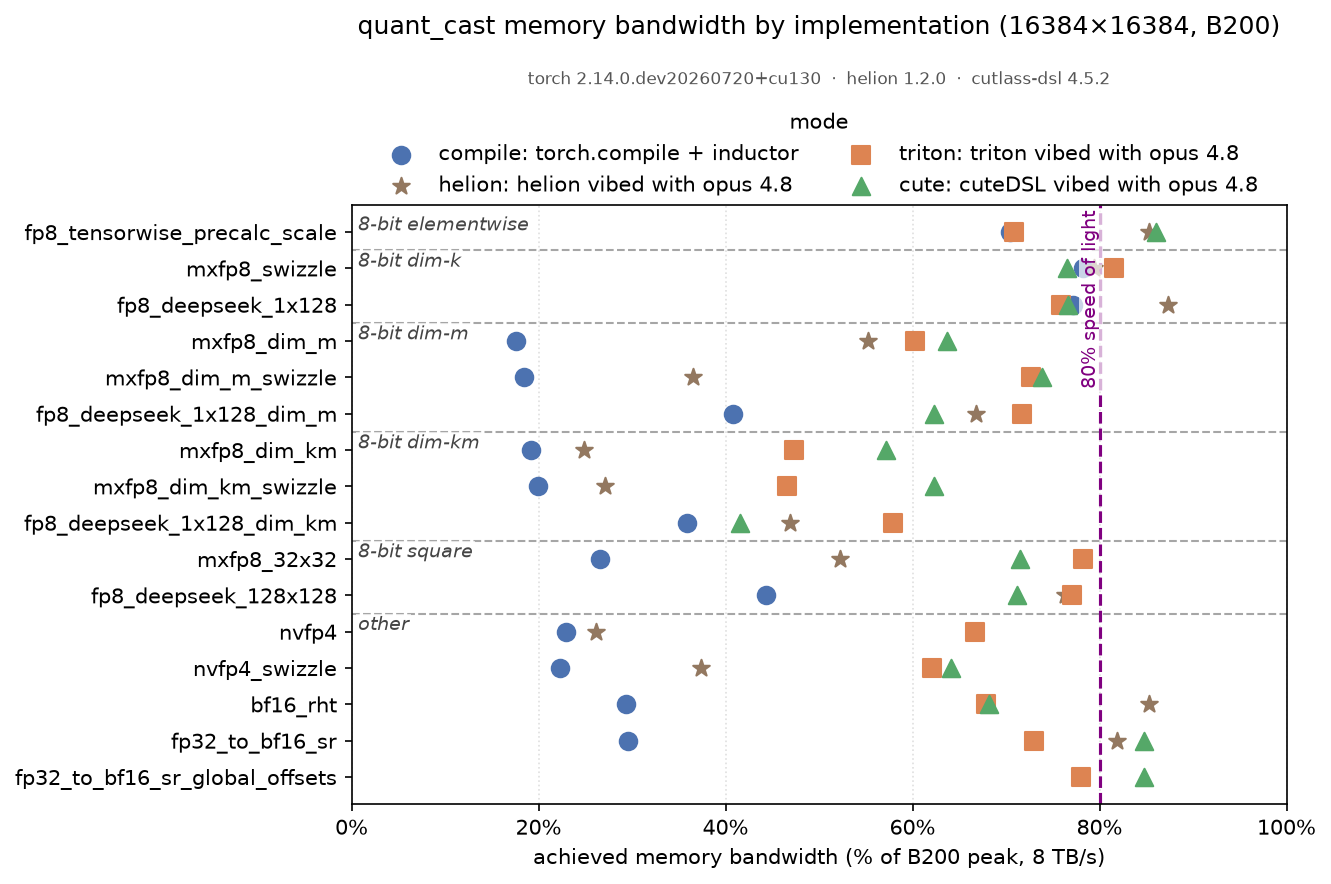
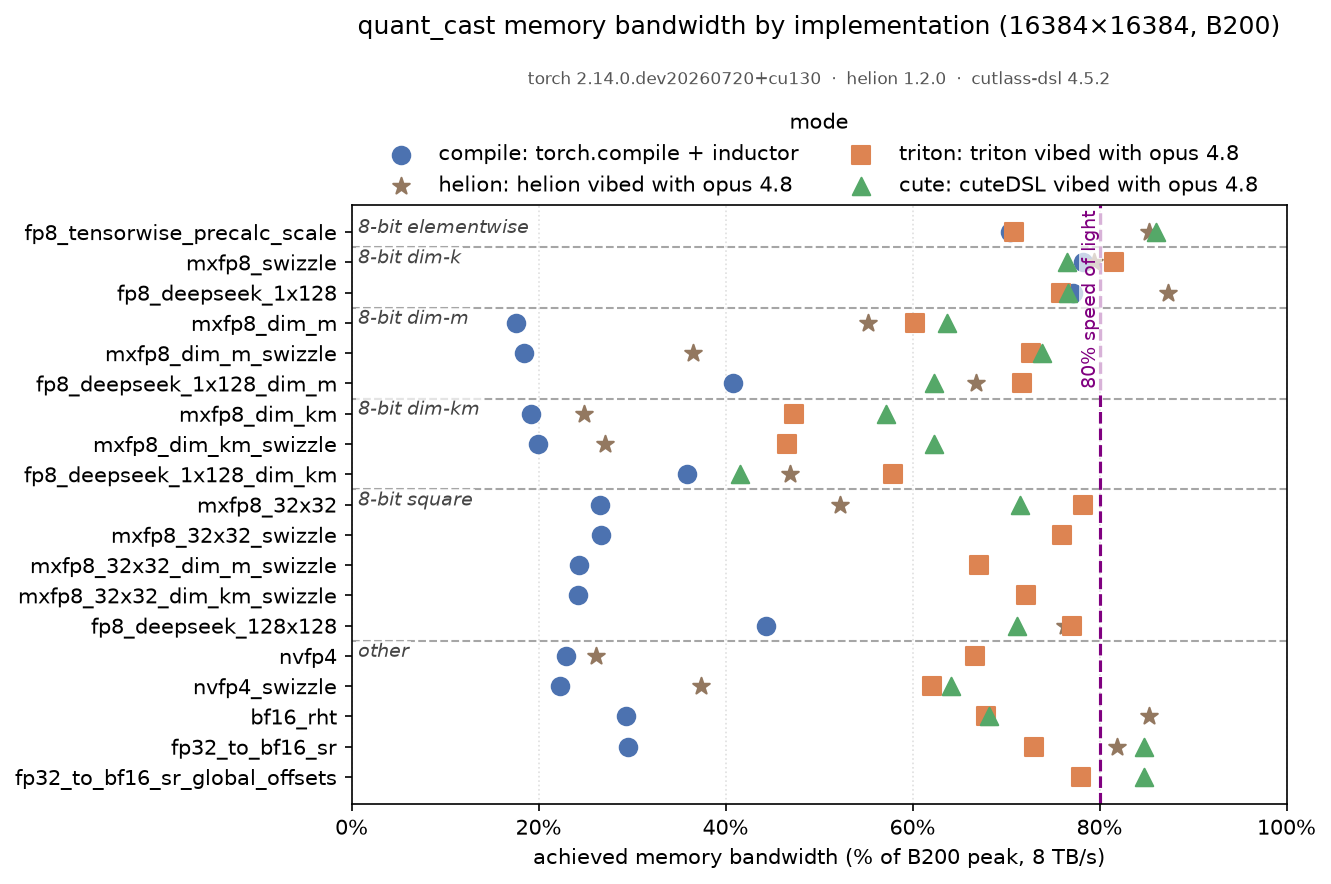
more mxfp8 32x32 options
Summary:

Test Plan:

diff --git a/quant_cast_bench/quant_cast_triton/recipes.py b/quant_cast_bench/quant_cast_triton/recipes.py
@@ -23,6 +23,8 @@ from quant_cast_bench.quant_cast_gold.recipes import (
     Deepseek128x128Gold,
     Float8TensorwiseGold,
     HadamardRht,
+    Mxfp832x32DimKMSwizzleGold,
+    Mxfp832x32DimMSwizzleGold,
     Mxfp832x32Gold,
     Mxfp832x32SwizzleGold,
     Mxfp8DimKmGold,
@@ -718,6 +720,89 @@ MXFP8_32X32_SWIZZLE = QuantCastTritonRecipe.from_gold(
 
 
 # ---------------------------------------------------------------------------
+# mxfp8 32x32 dim-M / transposed swizzle: same square-block quant as _mxfp8_32x32_swizzle_kernel
+# (one e8m0 scale per 32x32 block, via the (32, CB, 32) double-max reduction), but the outputs are
+# written in the dim-M / transposed frame -- qdata (N, M) and the scale into the NVIDIA-swizzled 4D
+# block grid of the TRANSPOSED (N, M//32) scale. The block is square, so the scale VALUES are
+# identical to _mxfp8_32x32_swizzle_kernel; only the output layout changes. Mirrors
+# mxfp8_32x32_dim_m_swizzle_f. The per-block scale is expanded over the 32 columns of its col-block
+# (which become 32 transposed rows over N), and its swizzle pre-position is (row = n in [0, N),
+# col = 32-row-block index in [0, M//32)) -- reusing _mxfp8_dim_m_swizzle_kernel's flat formula.
+# Requires M%32==0 and N%32==0. The scale grid spans the PADDED extents (rows N->nrb*128, cols
+# M//32->ncb*4) so every slot of the (nrb, ncb, 32, 16) buffer is written -- real e8m0 bytes or
+# literal 0 (matching gold's zero-pad) -- letting the wrapper use torch.empty. Grid:
+# (ncb*4, cdiv(nrb*128, CB*32)).
+# ---------------------------------------------------------------------------
+@triton.autotune(configs=_MXFP8_32X32_CONFIGS, key=["M", "N"])
+@triton.jit
+def _mxfp8_32x32_dim_m_swizzle_kernel(
+    x_ptr, y_ptr, s_ptr, M, N, sxm, sxn, sym, syn, NCB, NRB, CB: tl.constexpr
+):
+    pid_rb = tl.program_id(0)  # single 32-row block (= transposed scale col, over the padded ncb*4)
+    pid_cb = tl.program_id(1)  # group of CB 32-col blocks (= transposed scale rows, over padded nrb*128)
+    offs_m = pid_rb * 32 + tl.arange(0, 32)
+    offs_n = pid_cb * (CB * 32) + tl.arange(0, CB * 32)
+    m_mask = offs_m < M
+    n_mask = offs_n < N
+    x = tl.load(
+        x_ptr + offs_m[:, None] * sxm + offs_n[None, :] * sxn,
+        mask=m_mask[:, None] & n_mask[None, :], other=0.0,
+    ).to(tl.float32)  # (32, CB*32); padded rows/cols read as 0
+    xr = tl.reshape(x, (32, CB, 32))
+    amax = tl.max(tl.max(tl.abs(xr), axis=2), axis=0)  # (CB,): within-block cols, then 32 rows
+    biased = _amax_to_e8m0_tl(amax)  # (CB,)
+    rcp = _e8m0_to_reciprocal_fp32_tl(biased)
+    y = tl.reshape((xr * rcp[None, :, None]).to(tl.float8e4nv), (32, CB * 32))  # (32, CB*32)
+    # transposed qdata store into (N, M): out[n, m] = y[m_in_tile, n_in_tile]. qdata is exactly
+    # (N, M) with no padding, so gate on both real transposed-row (offs_n < N) and real col (offs_m < M).
+    out_off = offs_n[:, None] * sym + offs_m[None, :] * syn
+    tl.store(y_ptr + out_off, tl.trans(y), mask=n_mask[:, None] & m_mask[None, :])
+    # swizzled scale store into the 4D grid (nrb, ncb, 32, 16). Pre-swizzle position in the transposed
+    # frame: row = n (over N), col = pid_rb (this program's single 32-row-block, over M//32). The one
+    # block scale is expanded over the 32 transposed rows of each col-block -- biased[cb] to every
+    # offs_n in that col-block. Padded transposed rows (n >= N) / cols (pid_rb >= M//32) are written 0.
+    row = offs_n                                    # (CB*32,)  transposed row over N
+    br = row // 128
+    r128 = row % 128
+    a = r128 // 32
+    b = r128 % 32
+    bc = pid_rb // 4                                # col = pid_rb (32-row-block index)
+    c4 = pid_rb % 4
+    flat = ((br * NCB + bc) * 32 + b) * 16 + (a * 4 + c4)  # (CB*32,)
+    # biased is (CB,); expand each col-block's scale over its 32 transposed rows -> (CB*32,).
+    biased_exp = tl.reshape(tl.broadcast_to(biased[:, None], (CB, 32)), (CB * 32,))
+    s_bytes = tl.where(n_mask & (pid_rb < (M // 32)), biased_exp.to(tl.uint8), 0)
+    # mask is OOB-safety only (offs_n >= NRB*128 -> br >= NRB -> out-of-buffer flat); padded rows in
+    # [N, NRB*128) are valid buffer positions and get the 0 written above.
+    tl.store(s_ptr + flat, s_bytes, mask=offs_n < (NRB * 128))
+
+
+def mxfp8_32x32_dim_m_swizzle_triton(x, **kwargs):
+    assert x.is_contiguous() and x.dim() == 2
+    M, N = x.shape
+    assert M % 32 == 0 and N % 32 == 0, "mxfp8_32x32_dim_m_swizzle kernel needs M%32==0 and N%32==0"
+    y = torch.empty((N, M), dtype=torch.float8_e4m3fn, device=x.device)
+    nrb = (N + 127) // 128            # transposed rows = N
+    ncb = ((M // 32) + 3) // 4        # transposed cols = M//32 (padded up to a multiple of 4)
+    # torch.empty (not zeros): the kernel writes every slot of the padded (nrb, ncb, 32, 16) grid
+    # itself -- real e8m0 bytes plus literal 0 for the padded transposed rows [N, nrb*128) and cols.
+    s_u8 = torch.empty(nrb, ncb, 32, 16, dtype=torch.uint8, device=x.device)
+    # grid dim0 = ncb*4 tiles the transposed scale col (32-row-block index) over [0, ncb*4) exactly;
+    # dim1 covers the padded transposed rows (nrb*128), not just N -- so every swizzle slot is visited
+    # exactly once. offs_m may overshoot M (masked on the qdata store).
+    grid = lambda meta: (ncb * 4, triton.cdiv(nrb * 128, meta["CB"] * 32))  # noqa: E731
+    _mxfp8_32x32_dim_m_swizzle_kernel[grid](
+        x, y, s_u8, M, N, x.stride(0), x.stride(1), y.stride(0), y.stride(1), ncb, nrb,
+    )
+    return y, s_u8.view(torch.float8_e8m0fnu)
+
+
+MXFP8_32X32_DIM_M_SWIZZLE = QuantCastTritonRecipe.from_gold(
+    Mxfp832x32DimMSwizzleGold, triton_fn=mxfp8_32x32_dim_m_swizzle_triton
+)
+
+
+# ---------------------------------------------------------------------------
 # mxfp8 dim-M: 32-row blocks down M, one e8m0 scale per (32-row-block, col); transposed
 # outputs (N, M) / (N, M//32). Mirrors mxfp8_dim_m_f.
 # Perf: process RB 32-row blocks x BN cols per program; reshape (RB*32, BN) -> (RB, 32, BN) and
@@ -1058,6 +1143,101 @@ def mxfp8_dim_km_swizzle_triton(x, **kwargs):
 
 MXFP8_DIM_KM_SWIZZLE = QuantCastTritonRecipe.from_gold(
     Mxfp8DimKmSwizzleGold, triton_fn=mxfp8_dim_km_swizzle_triton
+)
+
+
+# ---------------------------------------------------------------------------
+# mxfp8 32x32 both directions, one pass, with BOTH e8m0 scales in the swizzled 4D (nrb, ncb, 32, 16)
+# grid. The block is SQUARE, so the quantization + single per-block scale are shared: one (RB, CB)
+# scale (amax over each 32x32 block via the (RB, 32, CB, 32) double-max), one qdata reused for both
+# the dim-K (M,N) store and the dim-M (N,M) transposed store. Only the two scale layouts differ --
+# the same block scale expanded over its 32 rows (dim-K: sk (M, N//32)) or 32 cols then transposed
+# (dim-M: sm (N, M//32)), each scattered to its swizzled slot (reusing _mxfp8_dim_km_swizzle_kernel's
+# flat formulas). Mirrors mxfp8_32x32_dim_km_swizzle_f. Requires M%32==0, N%32==0. Both swizzle grids
+# allocate with torch.empty: the grid spans the PADDED extents Mpad=ceil(M/128)*128,
+# Npad=ceil(N/128)*128 so every slot of both buffers is written (real e8m0 bytes or literal 0).
+# ---------------------------------------------------------------------------
+@triton.autotune(configs=_DIM_KM_CONFIGS, key=["M", "N"])
+@triton.jit
+def _mxfp8_32x32_dim_km_swizzle_kernel(
+    x_ptr, yk_ptr, sk_ptr, ym_ptr, sm_ptr, M, N,
+    sxm, sxn, sykm, sykn, symn, symm, NCB_K, NCB_M,
+    BN: tl.constexpr, RB: tl.constexpr,
+):
+    BM: tl.constexpr = RB * 32   # rows in the tile
+    CB: tl.constexpr = BN // 32  # 32-col blocks in the tile
+    pid_m = tl.program_id(0)     # row-block group (BM rows), over Mpad
+    pid_n = tl.program_id(1)     # col group (BN cols), over Npad
+    offs_m = pid_m * BM + tl.arange(0, BM)
+    offs_n = pid_n * BN + tl.arange(0, BN)
+    m_real = offs_m < M
+    n_real = offs_n < N
+    x = tl.load(
+        x_ptr + offs_m[:, None] * sxm + offs_n[None, :] * sxn,
+        mask=m_real[:, None] & n_real[None, :], other=0.0,
+    ).to(tl.float32)  # (BM, BN); padded rows/cols read as 0
+    # one scale per 32x32 block: reshape (RB, 32, CB, 32) and reduce both within-block dims. M%32==0
+    # and N%32==0 -> each block is wholly real or wholly padded, so a real block's amax never mixes 0.
+    xr = tl.reshape(x, (RB, 32, CB, 32))
+    b = _amax_to_e8m0_tl(tl.max(tl.max(tl.abs(xr), axis=3), axis=1))  # (RB, CB) per block
+    rcp = _e8m0_to_reciprocal_fp32_tl(b)
+    q = tl.reshape((xr * rcp[:, None, :, None]).to(tl.float8e4nv), (BM, BN))  # shared qdata
+    # dim-K store: qdata (M, N) as-is.
+    tl.store(yk_ptr + offs_m[:, None] * sykm + offs_n[None, :] * sykn, q,
+             mask=m_real[:, None] & n_real[None, :])
+    # dim-M store: qdata transposed into (N, M).
+    tl.store(ym_ptr + offs_n[:, None] * symn + offs_m[None, :] * symm, tl.trans(q),
+             mask=n_real[:, None] & m_real[None, :])
+    # swizzled sk store: scale (M, N//32), block scale expanded over its 32 rows -> (BM, CB). Pre-swizzle
+    # row = m (over M), col = 32-col-block (over N//32). Padded slots (m >= M or col-block >= N//32) -> 0.
+    b_exp_k = tl.reshape(tl.broadcast_to(b[:, None, :], (RB, 32, CB)), (BM, CB))
+    row_k = offs_m[:, None]                              # (BM, 1)
+    col_k = (pid_n * CB + tl.arange(0, CB))[None, :]     # (1, CB)
+    r128k = row_k % 128
+    flat_k = (((row_k // 128) * NCB_K + col_k // 4) * 32 + r128k % 32) * 16 + (r128k // 32 * 4 + col_k % 4)
+    real_k = m_real[:, None] & (col_k < (N // 32))
+    tl.store(sk_ptr + flat_k, tl.where(real_k, b_exp_k.to(tl.uint8), 0))
+    # swizzled sm store: scale (N, M//32) transposed, block scale expanded over its 32 cols -> (RB, BN).
+    # Pre-swizzle row = n (over N), col = 32-row-block (over M//32). Padded slots -> 0.
+    b_exp_m = tl.reshape(tl.broadcast_to(b[:, :, None], (RB, CB, 32)), (RB, BN))
+    row_m = offs_n[None, :]                              # (1, BN)
+    col_m = (pid_m * RB + tl.arange(0, RB))[:, None]     # (RB, 1)
+    r128m = row_m % 128
+    flat_m = (((row_m // 128) * NCB_M + col_m // 4) * 32 + r128m % 32) * 16 + (r128m // 32 * 4 + col_m % 4)
+    real_m = (offs_n[None, :] < N) & (col_m < (M // 32))
+    tl.store(sm_ptr + flat_m, tl.where(real_m, b_exp_m.to(tl.uint8), 0))
+
+
+def mxfp8_32x32_dim_km_swizzle_triton(x, **kwargs):
+    assert x.is_contiguous() and x.dim() == 2
+    M, N = x.shape
+    assert M % 32 == 0 and N % 32 == 0, \
+        "mxfp8_32x32_dim_km_swizzle kernel needs M%32==0 and N%32==0"
+    yk = torch.empty_like(x, dtype=torch.float8_e4m3fn)                    # (M, N)
+    ym = torch.empty(N, M, dtype=torch.float8_e4m3fn, device=x.device)    # (N, M) transposed
+    # sk: (M, N//32) swizzled; sm: (N, M//32) swizzled. torch.empty (not zeros): the kernel writes
+    # every slot of both padded (nrb, ncb, 32, 16) grids itself (real e8m0 bytes or literal 0).
+    nrb_k = (M + 127) // 128
+    nrb_m = (N + 127) // 128
+    ncb_k = ((N // 32) + 3) // 4
+    ncb_m = ((M // 32) + 3) // 4
+    sk = torch.empty(nrb_k, ncb_k, 32, 16, dtype=torch.uint8, device=x.device)
+    sm = torch.empty(nrb_m, ncb_m, 32, 16, dtype=torch.uint8, device=x.device)
+    # grid spans the padded extents (multiples of 128, hence of every RB*32 and BN), so every swizzle
+    # slot is visited exactly once.
+    mpad = nrb_k * 128
+    npad = nrb_m * 128
+    grid = lambda meta: (triton.cdiv(mpad, meta["RB"] * 32), triton.cdiv(npad, meta["BN"]))  # noqa: E731
+    _mxfp8_32x32_dim_km_swizzle_kernel[grid](
+        x, yk, sk, ym, sm, M, N,
+        x.stride(0), x.stride(1), yk.stride(0), yk.stride(1),
+        ym.stride(0), ym.stride(1), ncb_k, ncb_m,
+    )
+    return yk, sk.view(torch.float8_e8m0fnu), ym, sm.view(torch.float8_e8m0fnu)
+
+
+MXFP8_32X32_DIM_KM_SWIZZLE = QuantCastTritonRecipe.from_gold(
+    Mxfp832x32DimKMSwizzleGold, triton_fn=mxfp8_32x32_dim_km_swizzle_triton
 )
 
 
@@ -1542,6 +1722,8 @@ ALL_RECIPES = [
     # 8-bit 2D
     ("mxfp8_32x32", MXFP8_32X32),
     ("mxfp8_32x32_swizzle", MXFP8_32X32_SWIZZLE),
+    ("mxfp8_32x32_dim_m_swizzle", MXFP8_32X32_DIM_M_SWIZZLE),
+    ("mxfp8_32x32_dim_km_swizzle", MXFP8_32X32_DIM_KM_SWIZZLE),
     ("fp8_deepseek_128x128", FP8_DEEPSEEK_128X128),
     # 8-bit rowwise/colwise
     ("fp8_rowwise", FP8_ROWWISE),

diff --git a/quant_cast_bench/quant_cast_gold/recipes.py b/quant_cast_bench/quant_cast_gold/recipes.py
@@ -794,6 +794,96 @@ Mxfp832x32SwizzleGold = QuantCastSingleKernelGold(
     perf_description="(32,32) block, swizzle",
 )
 
+# ---------------------------------------------------------------------------
+# Golden recipe: mxfp8 with square 32x32 blocks (as Mxfp832x32SwizzleGold), but the output is
+# dim-M / transposed -- qdata (N, M) and the per-block e8m0 scale expanded along N (each block
+# scale repeated over its 32 columns) then transposed to a (N, M//32) grid and swizzled into the
+# NVIDIA 32x4x4 blocked layout. The quantization is identical to mxfp8_32x32_swizzle_f (the block
+# is square, so which axis we expand over doesn't change the scale value); only the output layout
+# changes -- it's mxfp8_32x32_swizzle_f in the dim-M / transposed frame.
+# ---------------------------------------------------------------------------
+def mxfp8_32x32_dim_m_swizzle_f(x, **kwargs):
+    qdata, scale_e8m0 = mxfp8_32x32_f(x)  # (M, N), (M//32, N//32)
+    # expand the per-block scale over its 32 columns -> (M//32, N), then transpose to the dim-M
+    # frame (N, M//32) so it matches the transposed qdata's last-dim 32-blocks.
+    scale_expanded = scale_e8m0.repeat_interleave(32, dim=1).t().contiguous()  # (N, M//32)
+    return qdata.t().contiguous(), _to_blocked_4d(scale_expanded)
+
+
+def mxfp8_32x32_dim_m_swizzle_dq_f(q: torch.Tensor, scale: torch.Tensor) -> torch.Tensor:
+    # not a dataclass field -- inverse for the correctness check / consumers. `q` is (N, M) in the
+    # transposed dim-M frame with 32-blocks along the last (M) axis; reuse mxfp8_swizzle_dq_f, which
+    # un-swizzles the 4D scale grid and dequants last-dim 32-blocks.
+    return mxfp8_swizzle_dq_f(q, scale)
+
+
+def _mxfp8_32x32_dim_m_swizzle_correctness(
+    inputs: Tuple[torch.Tensor, ...], outputs: Tuple[torch.Tensor, torch.Tensor]
+) -> None:
+    """dequant works in the (N, M) transposed frame; transpose back before comparing to `x`."""
+    (x,) = inputs
+    qdata, scale = outputs
+    x_hat = mxfp8_32x32_dim_m_swizzle_dq_f(qdata, scale).t()
+    sqnr = _compute_error(x.float(), x_hat.float())
+    threshold = 15.0
+    assert sqnr > threshold, (
+        f"mxfp8_32x32_dim_m_swizzle: sqnr={sqnr.item():.2f} dB below {threshold} dB"
+    )
+
+
+Mxfp832x32DimMSwizzleGold = QuantCastSingleKernelGold(
+    pt_ref_fn=mxfp8_32x32_dim_m_swizzle_f,
+    correctness_fn=_mxfp8_32x32_dim_m_swizzle_correctness,
+    example_input_fn=lambda M, K: (torch.randn(M, K, dtype=torch.bfloat16, device="cuda"),),
+    perf_description="(32,32) block, t-contig, swizzle",
+)
+
+# ---------------------------------------------------------------------------
+# Golden recipe: mxfp8 with square 32x32 blocks, emitting BOTH the dim-K and dim-M swizzled
+# outputs in one pass. The block is square, so the quantization (and the single per-block e8m0
+# scale) is SHARED: the two qdata outputs are the same values in the dim-K (M,N) and dim-M / trans
+# (N,M) frames, and the two scales are that one block scale expanded along M (dim-K -> (M, N//32))
+# or along N then transposed (dim-M -> (N, M//32)), each swizzled. It's mxfp8_32x32_swizzle_f and
+# mxfp8_32x32_dim_m_swizzle_f fused into one pass (cf. mxfp8_dim_km_swizzle_f for the 1D-block case).
+# ---------------------------------------------------------------------------
+def mxfp8_32x32_dim_km_swizzle_f(x, **kwargs):
+    """One pass over x with square 32x32 blocks, both frames, both scales swizzled. Returns
+    (qk (M,N), sk_blocked, qm (N,M), sm_blocked) where sk/sm are the 4D block grids
+    `(nrb, ncb, 32, 16)` of the block scale expanded to (M, N//32) / (N, M//32)."""
+    qdata, scale_e8m0 = mxfp8_32x32_f(x)  # (M, N), (M//32, N//32)
+    # dim-K frame: expand the per-block scale over its 32 rows -> (M, N//32).
+    sk = _to_blocked_4d(scale_e8m0.repeat_interleave(32, dim=0))
+    # dim-M frame: expand over its 32 columns -> (M//32, N), transpose to (N, M//32).
+    sm = _to_blocked_4d(scale_e8m0.repeat_interleave(32, dim=1).t().contiguous())
+    return qdata, sk, qdata.t().contiguous(), sm
+
+
+def _mxfp8_32x32_dim_km_swizzle_correctness(
+    inputs: Tuple[torch.Tensor, ...],
+    outputs: Tuple[torch.Tensor, torch.Tensor, torch.Tensor, torch.Tensor],
+) -> None:
+    """Both quantizations dequant back to `x` with SQNR above threshold, each un-swizzling its 4D
+    scale grid: the dim-K pair directly, the dim-M pair in the transposed frame (then .t())."""
+    (x,) = inputs
+    qk, sk, qm, sm = outputs
+    sqnr_k = _compute_error(x.float(), mxfp8_swizzle_dq_f(qk, sk).float())
+    sqnr_m = _compute_error(x.float(), mxfp8_swizzle_dq_f(qm, sm).t().float())
+    threshold = 15.0
+    assert sqnr_k > threshold, (
+        f"mxfp8_32x32_dim_km_swizzle (dim-k): sqnr={sqnr_k.item():.2f} dB below {threshold} dB"
+    )
+    assert sqnr_m > threshold, (
+        f"mxfp8_32x32_dim_km_swizzle (dim-m): sqnr={sqnr_m.item():.2f} dB below {threshold} dB"
+    )
+
+
+Mxfp832x32DimKMSwizzleGold = QuantCastSingleKernelGold(
+    pt_ref_fn=mxfp8_32x32_dim_km_swizzle_f,
+    correctness_fn=_mxfp8_32x32_dim_km_swizzle_correctness,
+    example_input_fn=lambda M, K: (torch.randn(M, K, dtype=torch.bfloat16, device="cuda"),),
+    perf_description="(32,32) block, one pass, t-contig, swizzle",
+)
+
 
 # ---------------------------------------------------------------------------
 # Golden recipe: mxfp8 with swizzled (NVIDIA 32x4x4 blocked) scale.
@@ -1544,6 +1634,8 @@ ALL_RECIPES = [
     # 8-bit 2D
     ("mxfp8_32x32", Mxfp832x32Gold),
     ("mxfp8_32x32_swizzle", Mxfp832x32SwizzleGold),
+    ("mxfp8_32x32_dim_m_swizzle", Mxfp832x32DimMSwizzleGold),
+    ("mxfp8_32x32_dim_km_swizzle", Mxfp832x32DimKMSwizzleGold),
     ("fp8_deepseek_128x128", Deepseek128x128Gold),
     # 8-bit rowwise/colwise
     ("fp8_rowwise", RowwiseFp8Gold),

diff --git a/benchmarks/plot_bench.py b/benchmarks/plot_bench.py
@@ -59,7 +59,7 @@ _GROUP_SIZES = [
     ("8-bit dim-k", 2),
     ("8-bit dim-m", 3),
     ("8-bit dim-km", 3),
-    ("8-bit square", 2),
+    ("8-bit square", 5),
     ("other", None),  # None = all remaining rows
 ]
 _HERE = os.path.dirname(os.path.abspath(__file__))

diff --git a/benchmarks/README.md b/benchmarks/README.md
@@ -40,6 +40,9 @@ mxfp8_dim_km                     0.7116  1532.5       19.2%  (1,32) dim-k + (32,
 mxfp8_dim_km_swizzle             0.6845  1593.1       19.9%  (1,32) dim-k + (32,1) dim-m, one pass, t-contig, swizzle
 fp8_deepseek_1x128_dim_km              0.3805  2866.1       35.8%  (1,128) dim-k + (128,1) dim-m, one pass, t-contig
 mxfp8_32x32                      0.3789  2126.0       26.6%  (32,32) block
+mxfp8_32x32_swizzle              0.3817  2131.5       26.6%  (32,32) block, swizzle
+mxfp8_32x32_dim_m_swizzle        0.4190  1942.1       24.3%  (32,32) block, t-contig, swizzle
+mxfp8_32x32_dim_km_swizzle       0.5637  1934.6       24.2%  (32,32) block, one pass, t-contig, swizzle
 fp8_deepseek_128x128                   0.2269  3548.9       44.4%  (128,128) block
 fp8_rowwise                            0.1224  6580.4       82.3%  (1,-1) block
 fp8_colwise                            0.3928  2050.6       25.6%  (-1,1) block, t-contig
@@ -68,6 +71,9 @@ mxfp8_dim_km                     0.2879  3787.5       47.3%  (1,32) dim-k + (32,
 mxfp8_dim_km_swizzle             0.2929  3722.8       46.5%  (1,32) dim-k + (32,1) dim-m, one pass, t-contig, swizzle
 fp8_deepseek_1x128_dim_km              0.2355    4631       57.9%  (1,128) dim-k + (128,1) dim-m, one pass, t-contig
 mxfp8_32x32                      0.1287  6260.6       78.3%  (32,32) block
+mxfp8_32x32_swizzle              0.1338  6081.9       76.0%  (32,32) block, swizzle
+mxfp8_32x32_dim_m_swizzle        0.1515  5372.5       67.2%  (32,32) block, t-contig, swizzle
+mxfp8_32x32_dim_km_swizzle       0.1890  5769.4       72.1%  (32,32) block, one pass, t-contig, swizzle
 fp8_deepseek_128x128                   0.1306  6166.1       77.1%  (128,128) block
 fp8_rowwise                            0.1291  6237.9       78.0%  (1,-1) block
 fp8_colwise                            0.2178  3698.1       46.2%  (-1,1) block, t-contig
